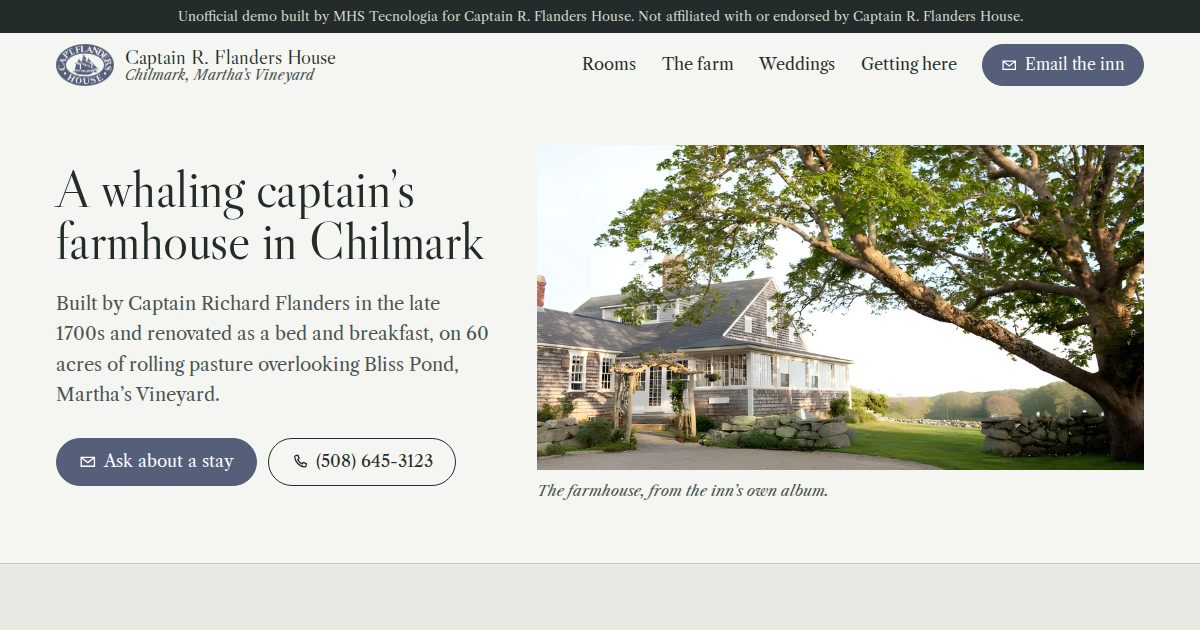
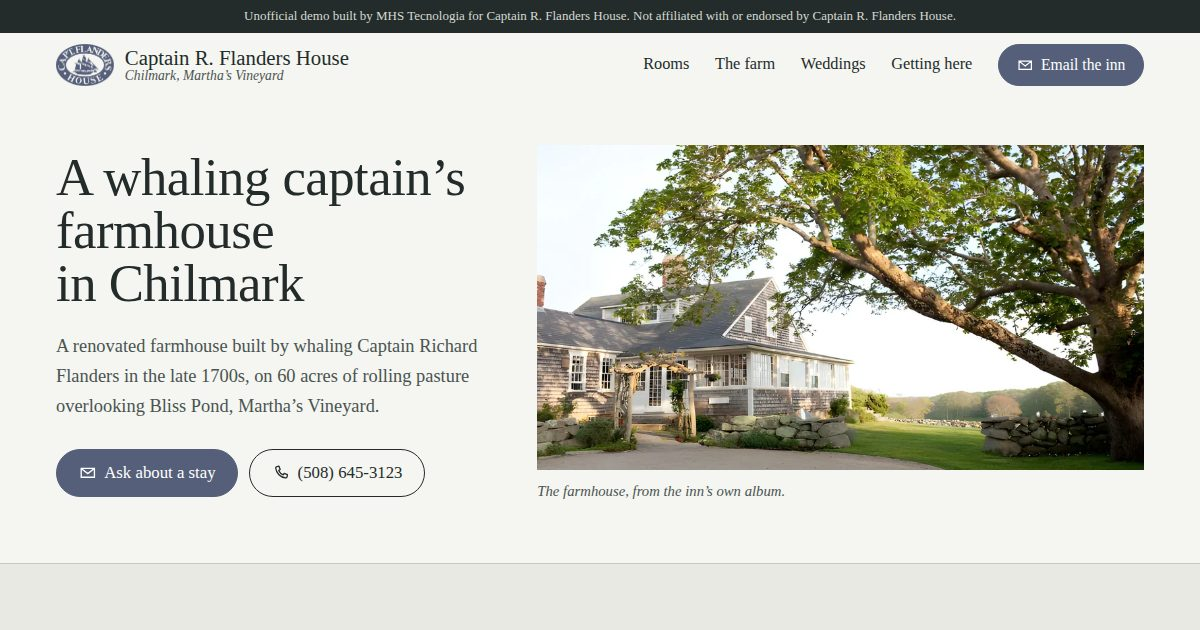
Previews: 160 ativos

diff --git a/captain-flanders-house-chilmark-ma/rooms.html b/captain-flanders-house-chilmark-ma/rooms.html
@@ -10,11 +10,12 @@
 <link rel="icon" type="image/png" href="favicon.png">
 <link rel="preload" as="font" type="font/woff2" href="fonts/caslon-display.woff2" crossorigin>
 <link rel="preload" as="font" type="font/woff2" href="fonts/caslon.woff2" crossorigin>
+<link rel="preload" as="font" type="font/woff2" href="fonts/caslon-italic.woff2" crossorigin>
 <style>
-@font-face { font-family: "Caslon Display"; font-weight: 400; font-display: swap; src: url(fonts/caslon-display.woff2) format("woff2"); }
-@font-face { font-family: "Caslon"; font-weight: 400; font-display: swap; src: url(fonts/caslon.woff2) format("woff2"); }
-@font-face { font-family: "Caslon"; font-weight: 400; font-style: italic; font-display: swap; src: url(fonts/caslon-italic.woff2) format("woff2"); }
-@font-face { font-family: "Caslon"; font-weight: 700; font-display: swap; src: url(fonts/caslon-bold.woff2) format("woff2"); }
+@font-face { font-family: "Caslon Display"; font-weight: 400; font-display: optional; src: url(fonts/caslon-display.woff2) format("woff2"); }
+@font-face { font-family: "Caslon"; font-weight: 400; font-display: optional; src: url(fonts/caslon.woff2) format("woff2"); }
+@font-face { font-family: "Caslon"; font-weight: 400; font-style: italic; font-display: optional; src: url(fonts/caslon-italic.woff2) format("woff2"); }
+@font-face { font-family: "Caslon"; font-weight: 700; font-display: optional; src: url(fonts/caslon-bold.woff2) format("woff2"); }
 
 /* Whitewashed trim, the spruce-dark ink of an old deed, the slate blue the inn
    already uses on its room labels and emblem, and the lichen on Chilmark's stone walls. */
@@ -125,10 +126,10 @@ em, .it { font-style: italic; }
 
 /* Weddings band: the night tent photo sits on the inn's own slate. */
 .wed { background: var(--slate-deep); color: #eef0ea; }
-.wed .wrap { padding-top: clamp(3rem, 7vw, 5.5rem); padding-bottom: clamp(3rem, 7vw, 5.5rem); display: grid; grid-template-columns: 7fr 5fr; gap: clamp(2rem, 5vw, 4rem); align-items: center; }
+.wed .wrap { padding-top: clamp(3rem, 7vw, 5.5rem); padding-bottom: clamp(3rem, 7vw, 5.5rem); display: grid; grid-template-columns: 6fr 5fr; gap: clamp(2rem, 5vw, 4rem); align-items: center; }
 .wed p { color: #d9ddd4; margin: 1rem 0 1.6rem; }
-.wed figure { justify-self: center; margin: 0; }
-.wed figure img { border: 8px solid #eef0ea; }
+.wed figure { margin: 0; width: 100%; }
+.wed figure img { width: 100%; max-width: 420px; aspect-ratio: 274 / 200; }
 .wed figcaption { font-style: italic; font-size: .9rem; color: #c9cec4; margin-top: .6rem; }
 
 /* Contact block */
@@ -150,6 +151,7 @@ em, .it { font-style: italic; }
 .room-entry dd { margin: 0; }
 .room-entry .extra { margin-top: 1.2rem; font-size: .98rem; color: var(--ink-2); }
 .room-entry .ask { margin-top: 1.5rem; }
+.room-entry .rate-note { margin-top: .9rem; font-size: .88rem; font-style: italic; color: var(--ink-2); }
 .pics { display: grid; grid-template-columns: 1fr; gap: .8rem; }
 .pics img { width: 100%; }
 .pics img + img { width: 62%; justify-self: end; }
@@ -205,7 +207,7 @@ em, .it { font-style: italic; }
   .bar { position: fixed; left: 0; right: 0; bottom: 0; z-index: 25; display: flex; gap: .6rem; padding: .6rem 1rem calc(.6rem + env(safe-area-inset-bottom)); background: rgba(245, 246, 242, .97); border-top: 1px solid var(--rule); transform: translateY(110%); transition: transform .25s; }
   .bar.show { transform: none; }
   .bar .btn { flex: 1; min-height: 2.9rem; }
-  body { padding-bottom: 4.5rem; }
+  body { padding-bottom: calc(5.5rem + env(safe-area-inset-bottom)); }
 }
 @media (max-width: 420px) {
   .hero h1 { font-size: 2.3rem; }
@@ -327,13 +329,15 @@ em, .it { font-style: italic; }
     </svg><svg class="tall" viewBox="0 0 400 612" role="group" aria-label="Plan of the homestead: four rooms in the main house, two cottages behind it">
       <line class="stroke" x1="0" y1="362" x2="400" y2="362"/>
       <rect class="stroke" x="252" y="58" width="24" height="56" style="fill:var(--paper-2)"/>
-      <a class="room" href="#sky"><polygon class="area" points="20,222 200,72 200,222"/><text class="lbl" x="140" y="196">Sky Room</text></a>
-      <a class="room" href="#wind"><polygon class="area" points="200,72 380,222 200,222"/><text class="lbl" x="260" y="196">Wind Room</text></a>
-      <a class="room" href="#pond"><rect class="area" x="40" y="222" width="160" height="140"/><text class="lbl" x="120" y="290">Pond Room</text></a>
-      <a class="room" href="#field"><rect class="area" x="200" y="222" width="160" height="140"/><text class="lbl" x="280" y="290">Field Room</text></a>
+      <a class="room" href="#sky"><polygon class="area" points="20,222 200,72 200,222"/><text class="lbl" x="145" y="178">Sky Room</text><text class="sub" x="145" y="197">king bed</text><text class="sub" x="145" y="213">private bath</text></a>
+      <a class="room" href="#wind"><polygon class="area" points="200,72 380,222 200,222"/><text class="lbl" x="255" y="178">Wind Room</text><text class="sub" x="255" y="197">king bed</text><text class="sub" x="255" y="213">private bath</text></a>
+      <a class="room" href="#pond"><rect class="area" x="40" y="222" width="160" height="140"/><text class="lbl" x="120" y="278">Pond Room</text><text class="sub" x="120" y="297">queen bed</text><text class="sub" x="120" y="313">shared bath</text></a>
+      <a class="room" href="#field"><rect class="area" x="200" y="222" width="160" height="140"/><text class="lbl" x="280" y="278">Field Room</text><text class="sub" x="280" y="297">twin beds</text><text class="sub" x="280" y="313">shared bath</text></a>
+      <text class="note" transform="translate(16 172) rotate(-90)" text-anchor="middle">upstairs</text>
+      <text class="note" transform="translate(28 292) rotate(-90)" text-anchor="middle">downstairs</text>
       <text class="note" x="200" y="420" text-anchor="middle">behind the main house</text>
-      <a class="room" href="#stone"><path class="area" d="M30 552 V472 L110 430 L190 472 V552 Z"/><text class="lbl" x="110" y="518">Stone Cottage</text></a>
-      <a class="room" href="#wood"><path class="area" d="M210 552 V472 L290 430 L370 472 V552 Z"/><text class="lbl" x="290" y="518">Wood Cottage</text></a>
+      <a class="room" href="#stone"><path class="area" d="M30 552 V472 L110 430 L190 472 V552 Z"/><text class="lbl" x="110" y="494">Stone Cottage</text><text class="sub" x="110" y="513">queen bed</text><text class="sub" x="110" y="529">private bath</text></a>
+      <a class="room" href="#wood"><path class="area" d="M210 552 V472 L290 430 L370 472 V552 Z"/><text class="lbl" x="290" y="494">Wood Cottage</text><text class="sub" x="290" y="513">full bed</text><text class="sub" x="290" y="529">private bath</text></a>
       <line class="stroke" x1="0" y1="552" x2="400" y2="552"/>
       <ellipse class="wall-stone" style="--i:0" cx="12.9" cy="572.1" rx="12.9" ry="8.6"/>
       <ellipse class="wall-stone" style="--i:1" cx="44.6" cy="570.7" rx="16.0" ry="7.5"/>
@@ -367,8 +371,8 @@ em, .it { font-style: italic; }
     <div>
       <p class="where">Main house, first floor</p>
       <h2 id="pond-h">Pond Room</h2>
-      <dl><dt>Bed</dt><dd>Queen</dd><dt>Bath</dt><dd>Shared</dd></dl>
-      
+      <dl><dt>Rate</dt><dd>$225 a night</dd><dt>Bed</dt><dd>Queen</dd><dt>Bath</dt><dd>Shared</dd></dl>
+      <p class="rate-note">Rates as listed on the inn&rsquo;s room sheet, posted November 2021. Call or email to confirm.</p>
       <p class="ask"><a class="btn line" href="mailto:mail@captainflandersinn.com?subject=Pond%20Room%20at%20the%20Captain%20Flanders%20House"><svg class="ico" viewBox="0 0 24 24" aria-hidden="true"><path fill="none" stroke="currentColor" stroke-width="1.8" d="M3 6h18v12H3zM3 6l9 7 9-7"/></svg>Ask about the Pond Room</a></p>
     </div>
     <div class="pics"><img src="img/r17-700.webp" srcset="img/r17-700.webp 700w, img/r17-1200.webp 1200w" sizes="(max-width: 860px) calc(100vw - 2rem), 48rem" width="1200" height="797" alt="The Pond Room: a four-poster queen bed with a floral quilt between two tall windows" loading="lazy" decoding="async"><img src="img/r18-700.webp" srcset="img/r18-700.webp 700w, img/r18-1200.webp 1200w" sizes="(max-width: 860px) 62vw, 30rem" width="1200" height="797" alt="The Pond Room washstand, with pitcher, bowl and folded towels" loading="lazy" decoding="async"></div>
@@ -379,8 +383,8 @@ em, .it { font-style: italic; }
     <div>
       <p class="where">Main house, first floor</p>
       <h2 id="field-h">Field Room</h2>
-      <dl><dt>Beds</dt><dd>Twin</dd><dt>Bath</dt><dd>Shared</dd></dl>
-      
+      <dl><dt>Rate</dt><dd>$225 a night</dd><dt>Beds</dt><dd>Twin</dd><dt>Bath</dt><dd>Shared</dd></dl>
+      <p class="rate-note">Rates as listed on the inn&rsquo;s room sheet, posted November 2021. Call or email to confirm.</p>
       <p class="ask"><a class="btn line" href="mailto:mail@captainflandersinn.com?subject=Field%20Room%20at%20the%20Captain%20Flanders%20House"><svg class="ico" viewBox="0 0 24 24" aria-hidden="true"><path fill="none" stroke="currentColor" stroke-width="1.8" d="M3 6h18v12H3zM3 6l9 7 9-7"/></svg>Ask about the Field Room</a></p>
     </div>
     <div class="pics one"><img src="img/r19-700.webp" srcset="img/r19-700.webp 700w, img/r19-1200.webp 1200w" sizes="(max-width: 860px) calc(100vw - 2rem), 48rem" width="1200" height="797" alt="The Field Room: two twin beds with turned posts and striped covers" loading="lazy" decoding="async"></div>
@@ -391,8 +395,8 @@ em, .it { font-style: italic; }
     <div>
       <p class="where">Main house, second floor</p>
       <h2 id="sky-h">Sky Room</h2>
-      <dl><dt>Bed</dt><dd>King</dd><dt>Bath</dt><dd>Private</dd></dl>
-      
+      <dl><dt>Rate</dt><dd>$275 a night</dd><dt>Bed</dt><dd>King</dd><dt>Bath</dt><dd>Private</dd></dl>
+      <p class="rate-note">Rates as listed on the inn&rsquo;s room sheet, posted November 2021. Call or email to confirm.</p>
       <p class="ask"><a class="btn line" href="mailto:mail@captainflandersinn.com?subject=Sky%20Room%20at%20the%20Captain%20Flanders%20House"><svg class="ico" viewBox="0 0 24 24" aria-hidden="true"><path fill="none" stroke="currentColor" stroke-width="1.8" d="M3 6h18v12H3zM3 6l9 7 9-7"/></svg>Ask about the Sky Room</a></p>
     </div>
     <div class="pics one"><img src="img/r21-700.webp" srcset="img/r21-700.webp 700w, img/r21-1200.webp 1200w" sizes="(max-width: 860px) calc(100vw - 2rem), 48rem" width="1200" height="797" alt="The Sky Room under the eaves, with a king bed and a chest of drawers" loading="lazy" decoding="async"></div>
@@ -403,8 +407,8 @@ em, .it { font-style: italic; }
     <div>
       <p class="where">Main house, second floor</p>
       <h2 id="wind-h">Wind Room</h2>
-      <dl><dt>Bed</dt><dd>King</dd><dt>Bath</dt><dd>Private</dd></dl>
-      
+      <dl><dt>Rate</dt><dd>$275 a night</dd><dt>Bed</dt><dd>King</dd><dt>Bath</dt><dd>Private</dd></dl>
+      <p class="rate-note">Rates as listed on the inn&rsquo;s room sheet, posted November 2021. Call or email to confirm.</p>
       <p class="ask"><a class="btn line" href="mailto:mail@captainflandersinn.com?subject=Wind%20Room%20at%20the%20Captain%20Flanders%20House"><svg class="ico" viewBox="0 0 24 24" aria-hidden="true"><path fill="none" stroke="currentColor" stroke-width="1.8" d="M3 6h18v12H3zM3 6l9 7 9-7"/></svg>Ask about the Wind Room</a></p>
     </div>
     <div class="pics"><img src="img/r24-700.webp" srcset="img/r24-700.webp 700w, img/r24-1200.webp 1200w" sizes="(max-width: 860px) calc(100vw - 2rem), 48rem" width="1200" height="797" alt="The Wind Room: a white iron king bed and a red rug" loading="lazy" decoding="async"><img src="img/r23-700.webp" srcset="img/r23-700.webp 700w, img/r23-1200.webp 1200w" sizes="(max-width: 860px) 62vw, 30rem" width="1200" height="797" alt="Robes hanging on the Wind Room door" loading="lazy" decoding="async"></div>
@@ -415,8 +419,8 @@ em, .it { font-style: italic; }
     <div>
       <p class="where">Cottage, behind the main house</p>
       <h2 id="stone-h">Stone Cottage</h2>
-      <dl><dt>Bed</dt><dd>Queen</dd><dt>Bath</dt><dd>Private</dd><dt>Also</dt><dd>Small refrigerator</dd></dl>
-      <p class="extra">Chilmark is known for its rambling stone walls. The Stone Cottage was created by artist and stone mason Lew French, inspired by that tradition.</p>
+      <dl><dt>Rate</dt><dd>$350 a night</dd><dt>Bed</dt><dd>Queen</dd><dt>Bath</dt><dd>Private</dd><dt>Also</dt><dd>Small refrigerator</dd></dl>
+      <p class="extra">Chilmark is known for its rambling stone walls. The Stone Cottage was created by artist and stone mason Lew French, inspired by that tradition.</p><p class="rate-note">Rates as listed on the inn&rsquo;s room sheet, posted November 2021. Call or email to confirm.</p>
       <p class="ask"><a class="btn line" href="mailto:mail@captainflandersinn.com?subject=Stone%20Cottage%20at%20the%20Captain%20Flanders%20House"><svg class="ico" viewBox="0 0 24 24" aria-hidden="true"><path fill="none" stroke="currentColor" stroke-width="1.8" d="M3 6h18v12H3zM3 6l9 7 9-7"/></svg>Ask about the Stone Cottage</a></p>
     </div>
     <div class="pics"><img src="img/r26-700.webp" srcset="img/r26-700.webp 700w, img/r26-1200.webp 1200w" sizes="(max-width: 860px) calc(100vw - 2rem), 48rem" width="1200" height="797" alt="The Stone Cottage: a fieldstone cottage with a white door, stepping stones and a low stone wall" loading="lazy" decoding="async"><img src="img/r27-700.webp" srcset="img/r27-700.webp 700w, img/r27-1200.webp 1200w" sizes="(max-width: 860px) 62vw, 30rem" width="1200" height="797" alt="Inside the Stone Cottage: a queen canopy bed under exposed beams" loading="lazy" decoding="async"></div>
@@ -427,8 +431,8 @@ em, .it { font-style: italic; }
     <div>
       <p class="where">Cottage, behind the main house</p>
       <h2 id="wood-h">Wood Cottage</h2>
-      <dl><dt>Bed</dt><dd>Full</dd><dt>Bath</dt><dd>Private</dd><dt>Also</dt><dd>Small sitting area with sofa and love seat</dd></dl>
-      <p class="extra">The sofa and love seat do not pull out into sofa beds.</p>
+      <dl><dt>Rate</dt><dd>$350 a night</dd><dt>Bed</dt><dd>Full</dd><dt>Bath</dt><dd>Private</dd><dt>Also</dt><dd>Small sitting area with sofa and love seat</dd></dl>
+      <p class="extra">The sofa and love seat do not pull out into sofa beds.</p><p class="rate-note">Rates as listed on the inn&rsquo;s room sheet, posted November 2021. Call or email to confirm.</p>
       <p class="ask"><a class="btn line" href="mailto:mail@captainflandersinn.com?subject=Wood%20Cottage%20at%20the%20Captain%20Flanders%20House"><svg class="ico" viewBox="0 0 24 24" aria-hidden="true"><path fill="none" stroke="currentColor" stroke-width="1.8" d="M3 6h18v12H3zM3 6l9 7 9-7"/></svg>Ask about the Wood Cottage</a></p>
     </div>
     <div class="pics"><img src="img/r33-700.webp" srcset="img/r33-700.webp 700w, img/r33-1200.webp 1200w" sizes="(max-width: 860px) calc(100vw - 2rem), 48rem" width="1200" height="797" alt="The Wood Cottage: a shingled cottage in long grass under old trees" loading="lazy" decoding="async"><img src="img/r35-700.webp" srcset="img/r35-700.webp 700w, img/r35-1200.webp 1200w" sizes="(max-width: 860px) 62vw, 30rem" width="1200" height="797" alt="The Wood Cottage sitting area, with pine walls and tall windows" loading="lazy" decoding="async"></div>

diff --git a/captain-flanders-house-chilmark-ma/index.html b/captain-flanders-house-chilmark-ma/index.html
@@ -10,13 +10,14 @@
 <link rel="icon" type="image/png" href="favicon.png">
 <link rel="preload" as="font" type="font/woff2" href="fonts/caslon-display.woff2" crossorigin>
 <link rel="preload" as="font" type="font/woff2" href="fonts/caslon.woff2" crossorigin>
+<link rel="preload" as="font" type="font/woff2" href="fonts/caslon-italic.woff2" crossorigin>
 <link rel="preload" as="image" href="img/hero-m-780.webp" imagesrcset="img/hero-m-780.webp 780w" imagesizes="calc(100vw - 2rem)" media="(max-width: 860px)" fetchpriority="high">
 <link rel="preload" as="image" href="img/hero-900.webp" imagesrcset="img/hero-900.webp 900w, img/hero-1284.webp 1284w" imagesizes="min(56vw, 663px)" media="(min-width: 861px)" fetchpriority="high">
 <style>
-@font-face { font-family: "Caslon Display"; font-weight: 400; font-display: swap; src: url(fonts/caslon-display.woff2) format("woff2"); }
-@font-face { font-family: "Caslon"; font-weight: 400; font-display: swap; src: url(fonts/caslon.woff2) format("woff2"); }
-@font-face { font-family: "Caslon"; font-weight: 400; font-style: italic; font-display: swap; src: url(fonts/caslon-italic.woff2) format("woff2"); }
-@font-face { font-family: "Caslon"; font-weight: 700; font-display: swap; src: url(fonts/caslon-bold.woff2) format("woff2"); }
+@font-face { font-family: "Caslon Display"; font-weight: 400; font-display: optional; src: url(fonts/caslon-display.woff2) format("woff2"); }
+@font-face { font-family: "Caslon"; font-weight: 400; font-display: optional; src: url(fonts/caslon.woff2) format("woff2"); }
+@font-face { font-family: "Caslon"; font-weight: 400; font-style: italic; font-display: optional; src: url(fonts/caslon-italic.woff2) format("woff2"); }
+@font-face { font-family: "Caslon"; font-weight: 700; font-display: optional; src: url(fonts/caslon-bold.woff2) format("woff2"); }
 
 /* Whitewashed trim, the spruce-dark ink of an old deed, the slate blue the inn
    already uses on its room labels and emblem, and the lichen on Chilmark's stone walls. */
@@ -127,10 +128,10 @@ em, .it { font-style: italic; }
 
 /* Weddings band: the night tent photo sits on the inn's own slate. */
 .wed { background: var(--slate-deep); color: #eef0ea; }
-.wed .wrap { padding-top: clamp(3rem, 7vw, 5.5rem); padding-bottom: clamp(3rem, 7vw, 5.5rem); display: grid; grid-template-columns: 7fr 5fr; gap: clamp(2rem, 5vw, 4rem); align-items: center; }
+.wed .wrap { padding-top: clamp(3rem, 7vw, 5.5rem); padding-bottom: clamp(3rem, 7vw, 5.5rem); display: grid; grid-template-columns: 6fr 5fr; gap: clamp(2rem, 5vw, 4rem); align-items: center; }
 .wed p { color: #d9ddd4; margin: 1rem 0 1.6rem; }
-.wed figure { justify-self: center; margin: 0; }
-.wed figure img { border: 8px solid #eef0ea; }
+.wed figure { margin: 0; width: 100%; }
+.wed figure img { width: 100%; max-width: 420px; aspect-ratio: 274 / 200; }
 .wed figcaption { font-style: italic; font-size: .9rem; color: #c9cec4; margin-top: .6rem; }
 
 /* Contact block */
@@ -152,6 +153,7 @@ em, .it { font-style: italic; }
 .room-entry dd { margin: 0; }
 .room-entry .extra { margin-top: 1.2rem; font-size: .98rem; color: var(--ink-2); }
 .room-entry .ask { margin-top: 1.5rem; }
+.room-entry .rate-note { margin-top: .9rem; font-size: .88rem; font-style: italic; color: var(--ink-2); }
 .pics { display: grid; grid-template-columns: 1fr; gap: .8rem; }
 .pics img { width: 100%; }
 .pics img + img { width: 62%; justify-self: end; }
@@ -207,7 +209,7 @@ em, .it { font-style: italic; }
   .bar { position: fixed; left: 0; right: 0; bottom: 0; z-index: 25; display: flex; gap: .6rem; padding: .6rem 1rem calc(.6rem + env(safe-area-inset-bottom)); background: rgba(245, 246, 242, .97); border-top: 1px solid var(--rule); transform: translateY(110%); transition: transform .25s; }
   .bar.show { transform: none; }
   .bar .btn { flex: 1; min-height: 2.9rem; }
-  body { padding-bottom: 4.5rem; }
+  body { padding-bottom: calc(5.5rem + env(safe-area-inset-bottom)); }
 }
 @media (max-width: 420px) {
   .hero h1 { font-size: 2.3rem; }
@@ -253,7 +255,7 @@ em, .it { font-style: italic; }
 <section class="hero" data-hero>
   <div>
     <h1>A whaling captain&rsquo;s farmhouse in Chilmark</h1>
-    <p class="lede">Built by Captain Richard Flanders in the late 1700s and renovated as a bed and breakfast, on 60 acres of rolling pasture overlooking Bliss Pond, Martha&rsquo;s Vineyard.</p>
+    <p class="lede">A renovated farmhouse built by whaling Captain Richard Flanders in the late 1700s, on 60 acres of rolling pasture overlooking Bliss Pond, Martha&rsquo;s Vineyard.</p>
     <div class="ctas">
       <a class="btn" href="mailto:mail@captainflandersinn.com?subject=A%20stay%20at%20the%20Captain%20Flanders%20House"><svg class="ico" viewBox="0 0 24 24" aria-hidden="true"><path fill="none" stroke="currentColor" stroke-width="1.8" d="M3 6h18v12H3zM3 6l9 7 9-7"/></svg>Ask about a stay</a>
       <a class="btn line" href="tel:+15086453123"><svg class="ico" viewBox="0 0 24 24" aria-hidden="true"><path fill="none" stroke="currentColor" stroke-width="1.8" stroke-linejoin="round" d="M6.6 3.5 9.5 3l1.6 4.4-2 1.4a12 12 0 0 0 6.1 6.1l1.4-2 4.4 1.6-.5 2.9A2 2 0 0 1 18.5 19 15.5 15.5 0 0 1 5 5.5a2 2 0 0 1 1.6-2Z"/></svg>(508) 645-3123</a>
@@ -354,13 +356,15 @@ em, .it { font-style: italic; }
     </svg><svg class="tall" viewBox="0 0 400 612" role="group" aria-label="Plan of the homestead: four rooms in the main house, two cottages behind it">
       <line class="stroke" x1="0" y1="362" x2="400" y2="362"/>
       <rect class="stroke" x="252" y="58" width="24" height="56" style="fill:var(--paper-2)"/>
-      <a class="room" href="rooms.html#sky"><polygon class="area" points="20,222 200,72 200,222"/><text class="lbl" x="140" y="196">Sky Room</text></a>
-      <a class="room" href="rooms.html#wind"><polygon class="area" points="200,72 380,222 200,222"/><text class="lbl" x="260" y="196">Wind Room</text></a>
-      <a class="room" href="rooms.html#pond"><rect class="area" x="40" y="222" width="160" height="140"/><text class="lbl" x="120" y="290">Pond Room</text></a>
-      <a class="room" href="rooms.html#field"><rect class="area" x="200" y="222" width="160" height="140"/><text class="lbl" x="280" y="290">Field Room</text></a>
+      <a class="room" href="rooms.html#sky"><polygon class="area" points="20,222 200,72 200,222"/><text class="lbl" x="145" y="178">Sky Room</text><text class="sub" x="145" y="197">king bed</text><text class="sub" x="145" y="213">private bath</text></a>
+      <a class="room" href="rooms.html#wind"><polygon class="area" points="200,72 380,222 200,222"/><text class="lbl" x="255" y="178">Wind Room</text><text class="sub" x="255" y="197">king bed</text><text class="sub" x="255" y="213">private bath</text></a>
+      <a class="room" href="rooms.html#pond"><rect class="area" x="40" y="222" width="160" height="140"/><text class="lbl" x="120" y="278">Pond Room</text><text class="sub" x="120" y="297">queen bed</text><text class="sub" x="120" y="313">shared bath</text></a>
+      <a class="room" href="rooms.html#field"><rect class="area" x="200" y="222" width="160" height="140"/><text class="lbl" x="280" y="278">Field Room</text><text class="sub" x="280" y="297">twin beds</text><text class="sub" x="280" y="313">shared bath</text></a>
+      <text class="note" transform="translate(16 172) rotate(-90)" text-anchor="middle">upstairs</text>
+      <text class="note" transform="translate(28 292) rotate(-90)" text-anchor="middle">downstairs</text>
       <text class="note" x="200" y="420" text-anchor="middle">behind the main house</text>
-      <a class="room" href="rooms.html#stone"><path class="area" d="M30 552 V472 L110 430 L190 472 V552 Z"/><text class="lbl" x="110" y="518">Stone Cottage</text></a>
-      <a class="room" href="rooms.html#wood"><path class="area" d="M210 552 V472 L290 430 L370 472 V552 Z"/><text class="lbl" x="290" y="518">Wood Cottage</text></a>
+      <a class="room" href="rooms.html#stone"><path class="area" d="M30 552 V472 L110 430 L190 472 V552 Z"/><text class="lbl" x="110" y="494">Stone Cottage</text><text class="sub" x="110" y="513">queen bed</text><text class="sub" x="110" y="529">private bath</text></a>
+      <a class="room" href="rooms.html#wood"><path class="area" d="M210 552 V472 L290 430 L370 472 V552 Z"/><text class="lbl" x="290" y="494">Wood Cottage</text><text class="sub" x="290" y="513">full bed</text><text class="sub" x="290" y="529">private bath</text></a>
       <line class="stroke" x1="0" y1="552" x2="400" y2="552"/>
       <ellipse class="wall-stone" style="--i:0" cx="12.9" cy="572.1" rx="12.9" ry="8.6"/>
       <ellipse class="wall-stone" style="--i:1" cx="44.6" cy="570.7" rx="16.0" ry="7.5"/>
@@ -422,7 +426,7 @@ em, .it { font-style: italic; }
     </div>
     <figure>
       <img src="img/tent-274.webp" width="274" height="200" alt="A lit reception tent at dusk" loading="lazy">
-      <figcaption>From the inn&rsquo;s events page.</figcaption>
+      <figcaption>Photo by Jocelyn Filley, from the inn&rsquo;s events page.</figcaption>
     </figure>
   </div>
 </section>

diff --git a/captain-flanders-house-chilmark-ma/weddings.html b/captain-flanders-house-chilmark-ma/weddings.html
@@ -10,11 +10,12 @@
 <link rel="icon" type="image/png" href="favicon.png">
 <link rel="preload" as="font" type="font/woff2" href="fonts/caslon-display.woff2" crossorigin>
 <link rel="preload" as="font" type="font/woff2" href="fonts/caslon.woff2" crossorigin>
+<link rel="preload" as="font" type="font/woff2" href="fonts/caslon-italic.woff2" crossorigin>
 <style>
-@font-face { font-family: "Caslon Display"; font-weight: 400; font-display: swap; src: url(fonts/caslon-display.woff2) format("woff2"); }
-@font-face { font-family: "Caslon"; font-weight: 400; font-display: swap; src: url(fonts/caslon.woff2) format("woff2"); }
-@font-face { font-family: "Caslon"; font-weight: 400; font-style: italic; font-display: swap; src: url(fonts/caslon-italic.woff2) format("woff2"); }
-@font-face { font-family: "Caslon"; font-weight: 700; font-display: swap; src: url(fonts/caslon-bold.woff2) format("woff2"); }
+@font-face { font-family: "Caslon Display"; font-weight: 400; font-display: optional; src: url(fonts/caslon-display.woff2) format("woff2"); }
+@font-face { font-family: "Caslon"; font-weight: 400; font-display: optional; src: url(fonts/caslon.woff2) format("woff2"); }
+@font-face { font-family: "Caslon"; font-weight: 400; font-style: italic; font-display: optional; src: url(fonts/caslon-italic.woff2) format("woff2"); }
+@font-face { font-family: "Caslon"; font-weight: 700; font-display: optional; src: url(fonts/caslon-bold.woff2) format("woff2"); }
 
 /* Whitewashed trim, the spruce-dark ink of an old deed, the slate blue the inn
    already uses on its room labels and emblem, and the lichen on Chilmark's stone walls. */
@@ -125,10 +126,10 @@ em, .it { font-style: italic; }
 
 /* Weddings band: the night tent photo sits on the inn's own slate. */
 .wed { background: var(--slate-deep); color: #eef0ea; }
-.wed .wrap { padding-top: clamp(3rem, 7vw, 5.5rem); padding-bottom: clamp(3rem, 7vw, 5.5rem); display: grid; grid-template-columns: 7fr 5fr; gap: clamp(2rem, 5vw, 4rem); align-items: center; }
+.wed .wrap { padding-top: clamp(3rem, 7vw, 5.5rem); padding-bottom: clamp(3rem, 7vw, 5.5rem); display: grid; grid-template-columns: 6fr 5fr; gap: clamp(2rem, 5vw, 4rem); align-items: center; }
 .wed p { color: #d9ddd4; margin: 1rem 0 1.6rem; }
-.wed figure { justify-self: center; margin: 0; }
-.wed figure img { border: 8px solid #eef0ea; }
+.wed figure { margin: 0; width: 100%; }
+.wed figure img { width: 100%; max-width: 420px; aspect-ratio: 274 / 200; }
 .wed figcaption { font-style: italic; font-size: .9rem; color: #c9cec4; margin-top: .6rem; }
 
 /* Contact block */
@@ -150,6 +151,7 @@ em, .it { font-style: italic; }
 .room-entry dd { margin: 0; }
 .room-entry .extra { margin-top: 1.2rem; font-size: .98rem; color: var(--ink-2); }
 .room-entry .ask { margin-top: 1.5rem; }
+.room-entry .rate-note { margin-top: .9rem; font-size: .88rem; font-style: italic; color: var(--ink-2); }
 .pics { display: grid; grid-template-columns: 1fr; gap: .8rem; }
 .pics img { width: 100%; }
 .pics img + img { width: 62%; justify-self: end; }
@@ -205,7 +207,7 @@ em, .it { font-style: italic; }
   .bar { position: fixed; left: 0; right: 0; bottom: 0; z-index: 25; display: flex; gap: .6rem; padding: .6rem 1rem calc(.6rem + env(safe-area-inset-bottom)); background: rgba(245, 246, 242, .97); border-top: 1px solid var(--rule); transform: translateY(110%); transition: transform .25s; }
   .bar.show { transform: none; }
   .bar .btn { flex: 1; min-height: 2.9rem; }
-  body { padding-bottom: 4.5rem; }
+  body { padding-bottom: calc(5.5rem + env(safe-area-inset-bottom)); }
 }
 @media (max-width: 420px) {
   .hero h1 { font-size: 2.3rem; }
@@ -268,7 +270,7 @@ em, .it { font-style: italic; }
     </div>
     <figure>
       <img src="img/tent-274.webp" width="274" height="200" alt="A lit reception tent at dusk" loading="lazy">
-      <figcaption>From the inn&rsquo;s events page.</figcaption>
+      <figcaption>Photo by Jocelyn Filley, from the inn&rsquo;s events page.</figcaption>
     </figure>
   </div>
 </section>

diff --git a/captain-flanders-house-chilmark-ma/farm.html b/captain-flanders-house-chilmark-ma/farm.html
@@ -10,11 +10,12 @@
 <link rel="icon" type="image/png" href="favicon.png">
 <link rel="preload" as="font" type="font/woff2" href="fonts/caslon-display.woff2" crossorigin>
 <link rel="preload" as="font" type="font/woff2" href="fonts/caslon.woff2" crossorigin>
+<link rel="preload" as="font" type="font/woff2" href="fonts/caslon-italic.woff2" crossorigin>
 <style>
-@font-face { font-family: "Caslon Display"; font-weight: 400; font-display: swap; src: url(fonts/caslon-display.woff2) format("woff2"); }
-@font-face { font-family: "Caslon"; font-weight: 400; font-display: swap; src: url(fonts/caslon.woff2) format("woff2"); }
-@font-face { font-family: "Caslon"; font-weight: 400; font-style: italic; font-display: swap; src: url(fonts/caslon-italic.woff2) format("woff2"); }
-@font-face { font-family: "Caslon"; font-weight: 700; font-display: swap; src: url(fonts/caslon-bold.woff2) format("woff2"); }
+@font-face { font-family: "Caslon Display"; font-weight: 400; font-display: optional; src: url(fonts/caslon-display.woff2) format("woff2"); }
+@font-face { font-family: "Caslon"; font-weight: 400; font-display: optional; src: url(fonts/caslon.woff2) format("woff2"); }
+@font-face { font-family: "Caslon"; font-weight: 400; font-style: italic; font-display: optional; src: url(fonts/caslon-italic.woff2) format("woff2"); }
+@font-face { font-family: "Caslon"; font-weight: 700; font-display: optional; src: url(fonts/caslon-bold.woff2) format("woff2"); }
 
 /* Whitewashed trim, the spruce-dark ink of an old deed, the slate blue the inn
    already uses on its room labels and emblem, and the lichen on Chilmark's stone walls. */
@@ -125,10 +126,10 @@ em, .it { font-style: italic; }
 
 /* Weddings band: the night tent photo sits on the inn's own slate. */
 .wed { background: var(--slate-deep); color: #eef0ea; }
-.wed .wrap { padding-top: clamp(3rem, 7vw, 5.5rem); padding-bottom: clamp(3rem, 7vw, 5.5rem); display: grid; grid-template-columns: 7fr 5fr; gap: clamp(2rem, 5vw, 4rem); align-items: center; }
+.wed .wrap { padding-top: clamp(3rem, 7vw, 5.5rem); padding-bottom: clamp(3rem, 7vw, 5.5rem); display: grid; grid-template-columns: 6fr 5fr; gap: clamp(2rem, 5vw, 4rem); align-items: center; }
 .wed p { color: #d9ddd4; margin: 1rem 0 1.6rem; }
-.wed figure { justify-self: center; margin: 0; }
-.wed figure img { border: 8px solid #eef0ea; }
+.wed figure { margin: 0; width: 100%; }
+.wed figure img { width: 100%; max-width: 420px; aspect-ratio: 274 / 200; }
 .wed figcaption { font-style: italic; font-size: .9rem; color: #c9cec4; margin-top: .6rem; }
 
 /* Contact block */
@@ -150,6 +151,7 @@ em, .it { font-style: italic; }
 .room-entry dd { margin: 0; }
 .room-entry .extra { margin-top: 1.2rem; font-size: .98rem; color: var(--ink-2); }
 .room-entry .ask { margin-top: 1.5rem; }
+.room-entry .rate-note { margin-top: .9rem; font-size: .88rem; font-style: italic; color: var(--ink-2); }
 .pics { display: grid; grid-template-columns: 1fr; gap: .8rem; }
 .pics img { width: 100%; }
 .pics img + img { width: 62%; justify-self: end; }
@@ -205,7 +207,7 @@ em, .it { font-style: italic; }
   .bar { position: fixed; left: 0; right: 0; bottom: 0; z-index: 25; display: flex; gap: .6rem; padding: .6rem 1rem calc(.6rem + env(safe-area-inset-bottom)); background: rgba(245, 246, 242, .97); border-top: 1px solid var(--rule); transform: translateY(110%); transition: transform .25s; }
   .bar.show { transform: none; }
   .bar .btn { flex: 1; min-height: 2.9rem; }
-  body { padding-bottom: 4.5rem; }
+  body { padding-bottom: calc(5.5rem + env(safe-area-inset-bottom)); }
 }
 @media (max-width: 420px) {
   .hero h1 { font-size: 2.3rem; }

diff --git a/captain-flanders-house-chilmark-ma/getting-here.html b/captain-flanders-house-chilmark-ma/getting-here.html
@@ -10,11 +10,12 @@
 <link rel="icon" type="image/png" href="favicon.png">
 <link rel="preload" as="font" type="font/woff2" href="fonts/caslon-display.woff2" crossorigin>
 <link rel="preload" as="font" type="font/woff2" href="fonts/caslon.woff2" crossorigin>
+<link rel="preload" as="font" type="font/woff2" href="fonts/caslon-italic.woff2" crossorigin>
 <style>
-@font-face { font-family: "Caslon Display"; font-weight: 400; font-display: swap; src: url(fonts/caslon-display.woff2) format("woff2"); }
-@font-face { font-family: "Caslon"; font-weight: 400; font-display: swap; src: url(fonts/caslon.woff2) format("woff2"); }
-@font-face { font-family: "Caslon"; font-weight: 400; font-style: italic; font-display: swap; src: url(fonts/caslon-italic.woff2) format("woff2"); }
-@font-face { font-family: "Caslon"; font-weight: 700; font-display: swap; src: url(fonts/caslon-bold.woff2) format("woff2"); }
+@font-face { font-family: "Caslon Display"; font-weight: 400; font-display: optional; src: url(fonts/caslon-display.woff2) format("woff2"); }
+@font-face { font-family: "Caslon"; font-weight: 400; font-display: optional; src: url(fonts/caslon.woff2) format("woff2"); }
+@font-face { font-family: "Caslon"; font-weight: 400; font-style: italic; font-display: optional; src: url(fonts/caslon-italic.woff2) format("woff2"); }
+@font-face { font-family: "Caslon"; font-weight: 700; font-display: optional; src: url(fonts/caslon-bold.woff2) format("woff2"); }
 
 /* Whitewashed trim, the spruce-dark ink of an old deed, the slate blue the inn
    already uses on its room labels and emblem, and the lichen on Chilmark's stone walls. */
@@ -125,10 +126,10 @@ em, .it { font-style: italic; }
 
 /* Weddings band: the night tent photo sits on the inn's own slate. */
 .wed { background: var(--slate-deep); color: #eef0ea; }
-.wed .wrap { padding-top: clamp(3rem, 7vw, 5.5rem); padding-bottom: clamp(3rem, 7vw, 5.5rem); display: grid; grid-template-columns: 7fr 5fr; gap: clamp(2rem, 5vw, 4rem); align-items: center; }
+.wed .wrap { padding-top: clamp(3rem, 7vw, 5.5rem); padding-bottom: clamp(3rem, 7vw, 5.5rem); display: grid; grid-template-columns: 6fr 5fr; gap: clamp(2rem, 5vw, 4rem); align-items: center; }
 .wed p { color: #d9ddd4; margin: 1rem 0 1.6rem; }
-.wed figure { justify-self: center; margin: 0; }
-.wed figure img { border: 8px solid #eef0ea; }
+.wed figure { margin: 0; width: 100%; }
+.wed figure img { width: 100%; max-width: 420px; aspect-ratio: 274 / 200; }
 .wed figcaption { font-style: italic; font-size: .9rem; color: #c9cec4; margin-top: .6rem; }
 
 /* Contact block */
@@ -150,6 +151,7 @@ em, .it { font-style: italic; }
 .room-entry dd { margin: 0; }
 .room-entry .extra { margin-top: 1.2rem; font-size: .98rem; color: var(--ink-2); }
 .room-entry .ask { margin-top: 1.5rem; }
+.room-entry .rate-note { margin-top: .9rem; font-size: .88rem; font-style: italic; color: var(--ink-2); }
 .pics { display: grid; grid-template-columns: 1fr; gap: .8rem; }
 .pics img { width: 100%; }
 .pics img + img { width: 62%; justify-self: end; }
@@ -205,7 +207,7 @@ em, .it { font-style: italic; }
   .bar { position: fixed; left: 0; right: 0; bottom: 0; z-index: 25; display: flex; gap: .6rem; padding: .6rem 1rem calc(.6rem + env(safe-area-inset-bottom)); background: rgba(245, 246, 242, .97); border-top: 1px solid var(--rule); transform: translateY(110%); transition: transform .25s; }
   .bar.show { transform: none; }
   .bar .btn { flex: 1; min-height: 2.9rem; }
-  body { padding-bottom: 4.5rem; }
+  body { padding-bottom: calc(5.5rem + env(safe-area-inset-bottom)); }
 }
 @media (max-width: 420px) {
   .hero h1 { font-size: 2.3rem; }
